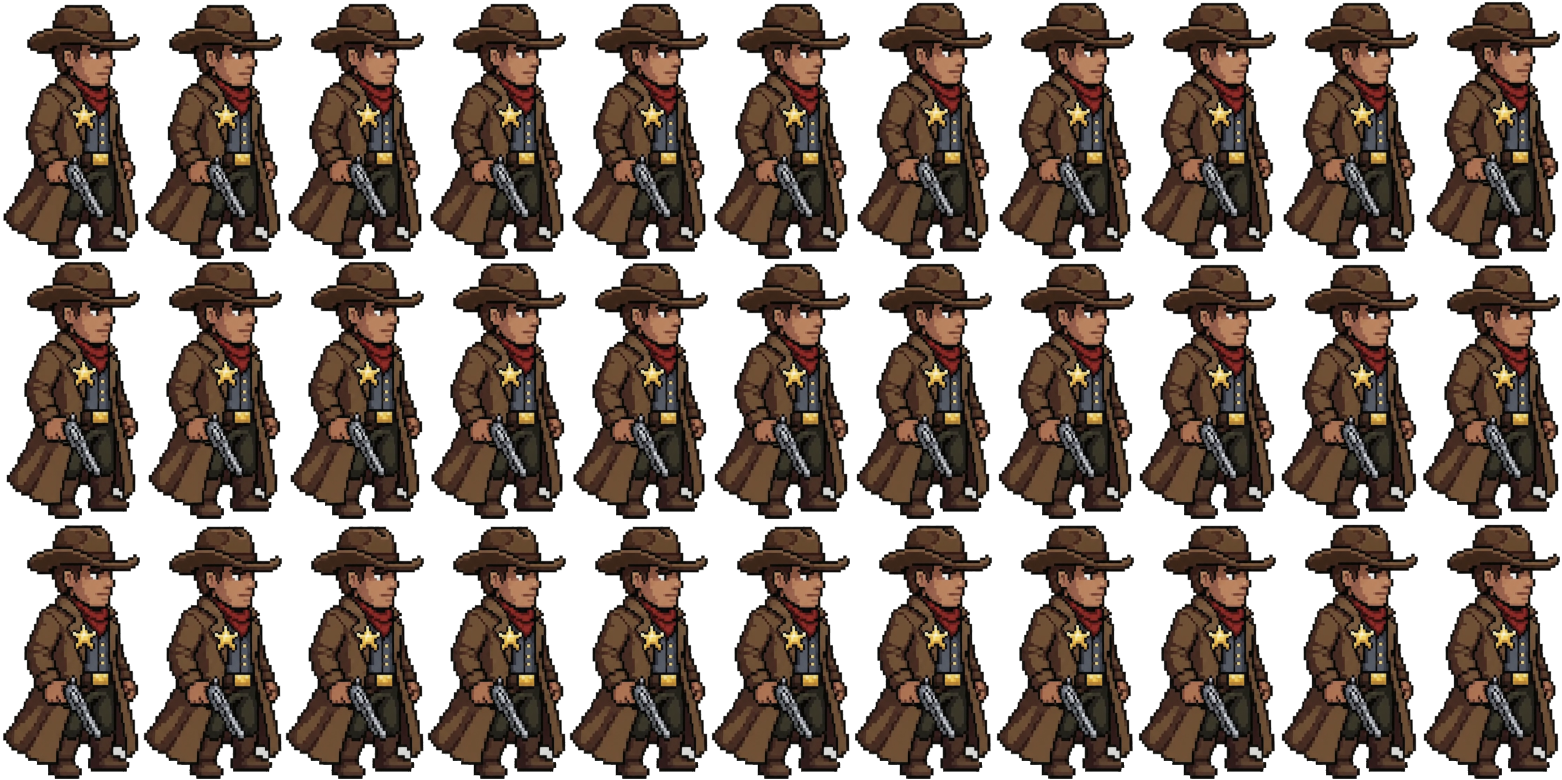
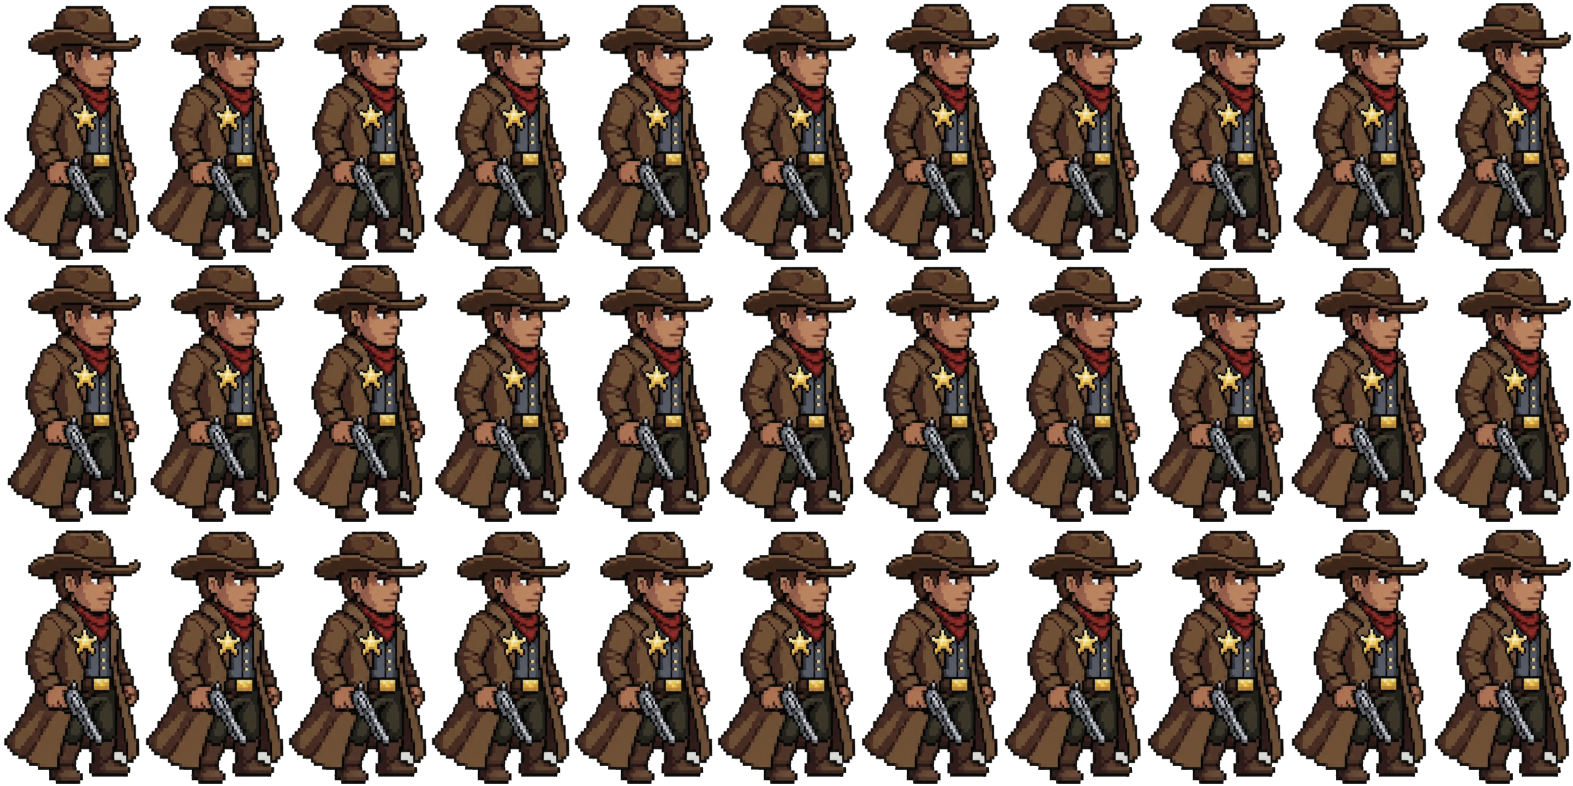
보안관 스프라이트 시트를 비율 맞춘 새 버전으로 교체하고 칸 크기·발 위치 다시 맞춤

diff --git a/sheriff_sprites.py b/sheriff_sprites.py
@@ -2,19 +2,16 @@ from sprite import SpriteSheet
 
 # (파일, 칸 크기, 열 수, 프레임 수, 발 위치, 반복)  — 캐릭터 키 약 256px, 24fps
 _SPECS = {
-    'idle_side':  ('idle_side.png', 142, 260, 11, 33, (65, 259), True),
-    'idle_front': ('idle_front.png', 201, 269, 10, 50, (108, 268), True),
-    'idle_back':  ('idle_back.png', 172, 265, 13, 49, (70, 263), True),
-    'walk_side':  ('walk_side.png', 195, 283, 24, 24, (111, 282), True),
-    'walk_front': ('walk_front.png', 162, 265, 14, 28, (58, 262), True),
-    'walk_back':  ('walk_back.png', 175, 271, 16, 32, (84, 264), True),
-    'dash':       ('dash.png', 325, 273, 10, 20, (121, 270), True),
-    'shoot':      ('shoot.png', 466, 261, 7, 27, (124, 260), False),
-    'pickup':     ('pickup.png', 207, 259, 10, 20, (72, 257), False),
+    'idle_side':  ('idle_side.png', 143, 262, 11, 33, (66, 260), True),
+    'idle_front': ('idle_front.png', 196, 271, 10, 50, (112, 269), True),
+    'idle_back':  ('idle_back.png', 173, 267, 13, 49, (71, 264), True),
+    'walk_side':  ('walk_side.png', 189, 273, 24, 24, (109, 271), True),
+    'walk_front': ('walk_front.png', 162, 266, 14, 28, (86, 263), True),
+    'walk_back':  ('walk_back.png', 174, 273, 16, 32, (83, 265), True),
+    'dash':       ('dash.png', 310, 274, 10, 20, (105, 271), True),
+    'shoot':      ('shoot.png', 509, 264, 7, 27, (155, 262), False),
+    'pickup':     ('pickup.png', 215, 262, 10, 20, (73, 259), False),
 }
-
-# 옆모습 대기 시트는 그림 속 키가 걷기 시트보다 작게(255px vs 262px) 그려져 있어서 키워서 맞춤
-_SIZE = {'idle_side': 262 / 255}
 
 _cache = None
 
@@ -25,6 +22,5 @@ def load():
         _cache = {}
         for name, (f, w, h, cols, n, anchor, loop) in _SPECS.items():
             _cache[name] = SpriteSheet('resources/sheriff/' + f, w, h, cols, n, anchor,
-                                       loop=loop, pingpong=(name == 'idle_front'),
-                                       size=_SIZE.get(name, 1.0))
+                                       loop=loop, pingpong=(name == 'idle_front'))
     return _cache
